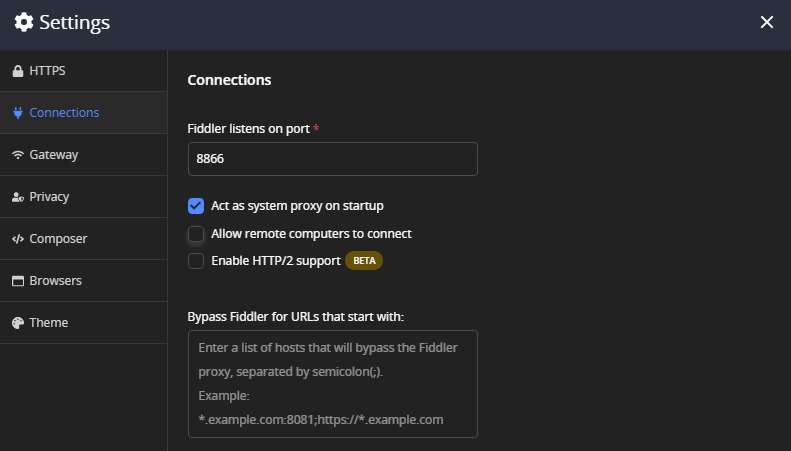
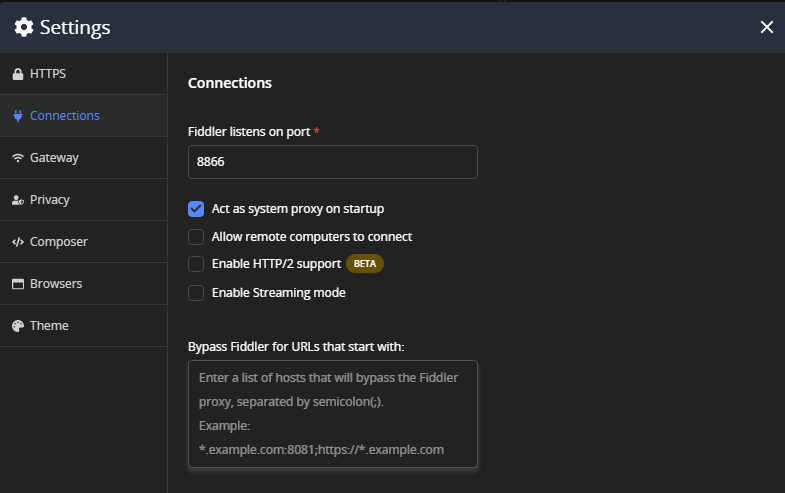
docs: update related to Streaming mode

diff --git a/user-guide/settings/connections.md b/user-guide/settings/connections.md
@@ -9,7 +9,7 @@ previous_url: /user-guide/settings/connections/allow-remote-connections
 
 # Connections Menu
 
-The **Connections** menu exposes options that allow for granular control over proxy settings and remote connection.
+The **Connections** menu exposes options allowing granular control over proxy settings and remote connection.
 
 - **Fiddler listens on port**&mdash;Defines the port that Fiddler Everywhere uses to listen for web traffic. The default port is **8866**.
 
@@ -35,16 +35,16 @@ The **Connections** menu exposes options that allow for granular control over pr
 
     >tip (**macOS only**) Fiddler Everywhere automatically adds the following system endpoints to the macOS proxy bypass list: `*.apple.com, *.itunes.com, *mzstatic.com`. These system endpoints use certificate pinning (meaning they won't trust third-party certificates like the Fiddler certificate at all). If not explicitly bypassed, some services (that depend on them) might misbehave or not work.
 
-The following figure displays the startup settings of the **Connections** menu.
+The following figure displays the default settings of the **Connections** menu.
 
 ![Act as a system proxy on startup setting](../../images/settings/settings-connections.png)
 
 
 ### Streaming
 
-By default, Fiddler Everywhere uses the buffering mode, which means that the responses are fully collected before any part is sent to the client. Buffering alters the responses&mdash;for example, an image won't begin to download until the containing page download is complete. With the streaming mode, the server responses are immediately returned to the client as it is downloaded. In the streaming mode, tampering with the response body is not possible.
+By default, Fiddler Everywhere uses the buffering mode, which means that the responses are fully collected before any part is sent to the client. Buffering alters the responses&mdash;for example, an image won't begin to download until the containing page download is complete. With the streaming mode, the server responses are immediately returned to the client as it is downloaded. In streaming mode, tampering with the response body is not possible.
 
-The streaming mode is helpful for low-level network timing scenarios&mdash;for example, by design, some browsers will parse partially downloaded HTML, which will start the download of external resources in parallel before the remote server has finished delivering the content. The streaming mode is also useful if a site offers audio or video streams, as Fiddler Everywhere cannot buffer such constant streams.
+The streaming mode is helpful for low-level network timing scenarios&mdash;for example, by design, some browsers will parse partially downloaded HTML, which will start the download of external resources in parallel before the remote server has finished delivering the content. The streaming mode is also helpful if a site offers audio or video streams, as Fiddler Everywhere cannot buffer such constant streams.
 
 ![Buffering mode vs. Streaming Mode](../../images/livetraffic/websessions/websessions-toolbar-streaming-mode.png)
 

diff --git a/user-guide/live-traffic.md b/user-guide/live-traffic.md
@@ -21,7 +21,7 @@ A (web) session represents a single transaction between a client and a server, s
 
 ## Live Traffic Toolbar
 
-The toolbar of the **Live Traffic** section provides various functionalities such as modes for streaming, decoding of content, filtering by various criteria, and saving and sharing of sessions.
+The toolbar of the **Live Traffic** section provides various functionalities such as filtering by various criteria, using preconfigured browser instance, searching, saving and sharing of sessions, and managing the user interface.
 
 To start capturing traffic, enable **Live Traffic** by switching to the **Capturing** mode. To go into the **Paused** mode, use the **Off** switch state to pause the traffic capturing.
 
